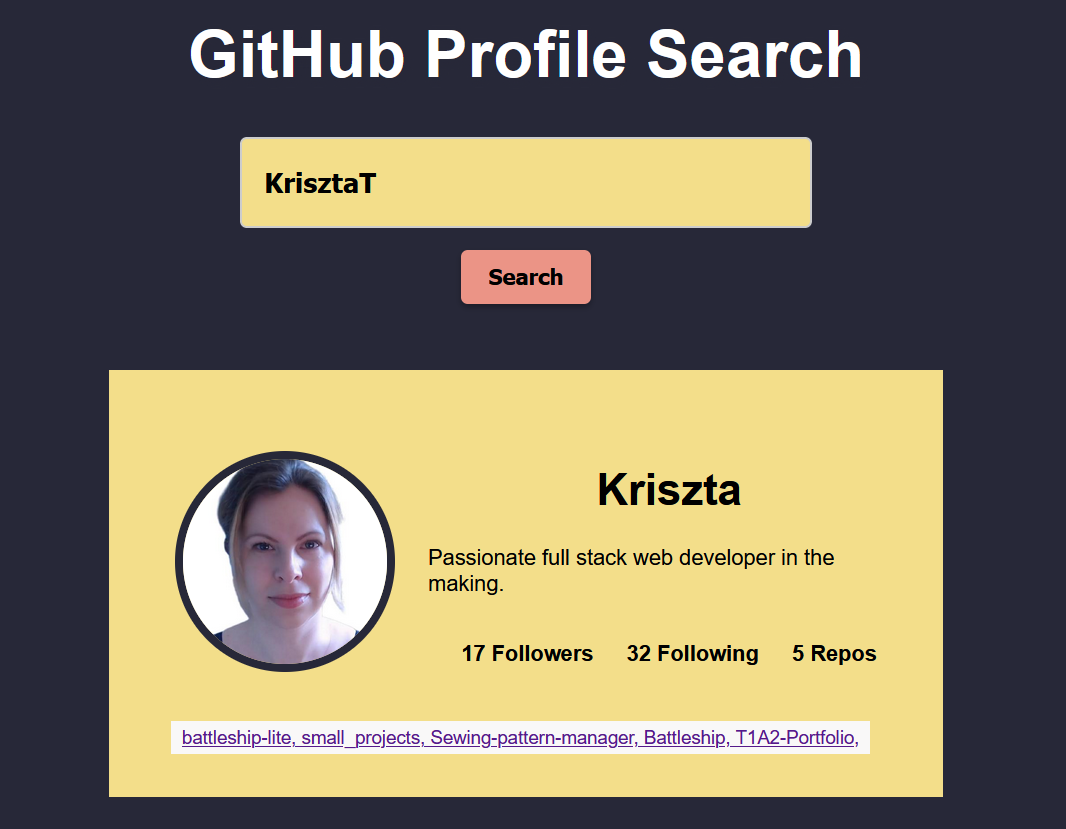
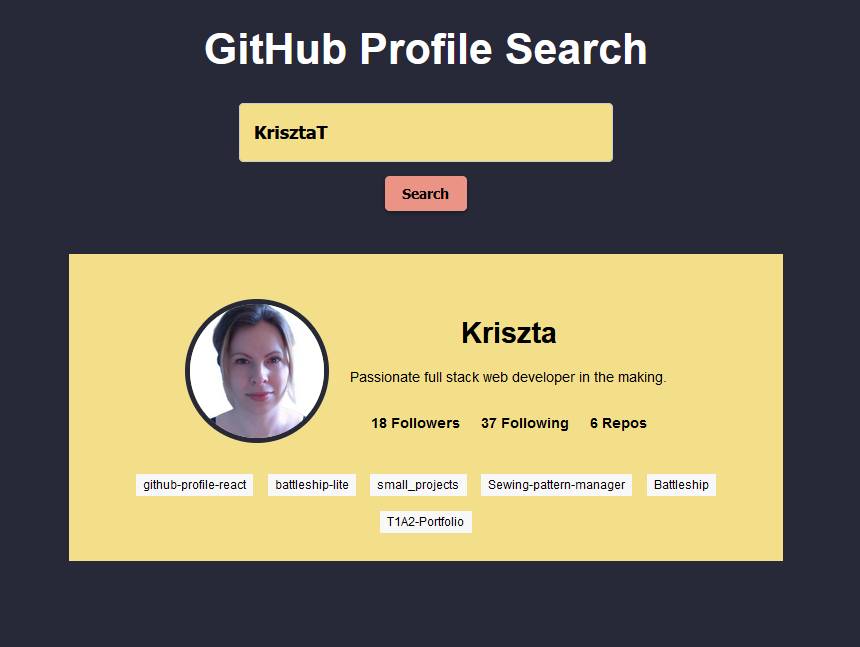
input value added, changes in displaying a tags and overall data

Changed region(s): [[0.0605, 0.1546, 0.9372, 0.9583], [0.1814, 0.0309, 0.8163, 0.1236]]

diff --git a/src/components/App.js b/src/components/App.js
@@ -23,52 +23,52 @@ class App extends React.Component {
   handleSearch = async () => {
     const API_URL = "https://api.github.com/users/";
 
-    try{
-    /* It first checks if there is a
+    try {
+      /* It first checks if there is a
       search query entered by the user, and if not, it returns without doing anything.*/
-    if (!this.state.searchUser) return;
+      if (!this.state.searchUser) return;
 
-    /*If there is a search query, the code sends a GET request to the GitHub API using the search
+      /*If there is a search query, the code sends a GET request to the GitHub API using the search
       query as a parameter using fetch and await. If the user is found, it sets the user state to the response data.
       */
-    const usrResponse = await fetch(API_URL + this.state.searchUser);
-    const user = await usrResponse.json();
+      const usrResponse = await fetch(API_URL + this.state.searchUser);
+      const user = await usrResponse.json();
 
-    /* This code is checking if the response from the GitHub API contains a `message` property with
+      /* This code is checking if the response from the GitHub API contains a `message` property with
       the value of `'Not Found'`. If it does, it means that the user specified in the search query
       was not found, so it sets the `user` state to `null` and displays an alert message to the
       user. If the user is found, it sets the `user` state to the response data. */
-    if (user.message === "Not Found") {
-      this.setState({ user: null });
-      alert("User not found");
-    } else {
-      this.setState({ user });
-    }
+      if (user.message === "Not Found") {
+        this.setState({ user: null });
+        alert("User not found");
+      } else {
+        this.setState({ user });
+      }
 
-    /* This code is sending a GET request to the GitHub API to retrieve the repositories of the user
+      /* This code is sending a GET request to the GitHub API to retrieve the repositories of the user
       specified in the search query. It uses the `fetch` function to send the request and `await` to
       wait for the response. If the request is successful, it sets the `repos` state to the response
       data. If the repos is not an array, then the repos states will be set to [] */
-    const repoResponse = await fetch(
-      API_URL + this.state.searchUser + "/repos?sort=created"
-    );
-    const repos = await repoResponse.json();
+      const repoResponse = await fetch(
+        API_URL + this.state.searchUser + "/repos?sort=created"
+      );
+      const repos = await repoResponse.json();
 
-    /* This code is checking if the `repos` variable is an array. If it is an array, it sets the
+      /* This code is checking if the `repos` variable is an array. If it is an array, it sets the
     `repos` state to the response data. If it is not an array, it logs an error message to the
     console and sets the `repos` state to an empty array. This is necessary to handle cases where
     the response from the GitHub API is not in the expected format, and to prevent the application
     from crashing due to unexpected data. */
-    if (Array.isArray(repos)) {
-      this.setState({ repos });
-    } else {
-      console.error("Error fetching repos:", repos);
+      if (Array.isArray(repos)) {
+        this.setState({ repos });
+      } else {
+        console.error("Error fetching repos:", repos);
+        this.setState({ repos: [] });
+      }
+    } catch (error) {
+      console.error(error);
       this.setState({ repos: [] });
     }
-   }catch (error) {
-    console.error(error);
-    this.setState({ repos: [] });
-   }
   };
 
   /* `setSearchUser` is a function that is used to update the `searchUser` property in the component's

diff --git a/src/App.css b/src/App.css
@@ -77,7 +77,7 @@ body{
 .inner-container{
   display: flex;
   flex-direction: row;
-  justify-content: space-between;
+  justify-content: center;
   align-items: center;
   background-color: #F3DE8A;
   width: 35vw;
@@ -87,12 +87,13 @@ body{
 .container h1{
   text-align: center;
 }
+
 .avatar {
   border-radius: 50%;
   border: 6px solid #272838;
   height: 150px;
   width: 150px;
-  margin: 0 24px;
+  margin: 0 24px 0 0;
 }
 
 .stats{
@@ -105,13 +106,18 @@ body{
 }
 
 .repos {
+  color: black;
+  font-size: 0.85rem;
+  display: inline-block;
+  text-align: center;
+}
+
+.repos a{
   text-decoration: none;
   color: black;
-  background-color: #f5edcd;
-  font-size: 0.85rem;
+  background-color: #F9F8F8;
   padding: 0.25rem 0.5rem;
-  margin-right: 1.5rem;
-  margin-bottom: 0.5rem;
+  margin: 0.5rem 0.5rem;
   display: inline-block;
 }
 

diff --git a/src/components/SearchBar.js b/src/components/SearchBar.js
@@ -10,13 +10,14 @@ import "./../App.css";
  * the value of the input field. The button has an `onClick` event listener that calls the `handleSearch` function.
  * when it is clicked.
  */
-const SearchBar = ({ setSearchUser, handleSearch }) => {
+const SearchBar = ({ searchUser, setSearchUser, handleSearch }) => {
   return (
     <div className="search-bar">
       <h1>GitHub Profile Search</h1>
       <input
         type="text"
         placeholder="Search GitHub username..."
+        value={searchUser} // value
         onChange={(e) => setSearchUser(e.target.value)}
       />
       <button onClick={handleSearch}>Search</button>

diff --git a/src/components/Profile.js b/src/components/Profile.js
@@ -17,17 +17,17 @@ const Profile = ({ user, repos }) => {
               <p> {user.followers} Followers </p>
               <p> {user.following} Following </p>
               <p> {user.public_repos} Repos </p>
-            </div>
+            </div> 
           </div>
         </div>
       )}
       <div className="repos">
         {repos.map((repo) => (
-          <a key={repo.id} href={repo.html_url}>{repo.name}, </a>
+          <a key={repo.id} href={repo.html_url}>{repo.name} </a>
         ))}
       </div>
     </div>
   );
-};
+}; 
 
 export default Profile;
